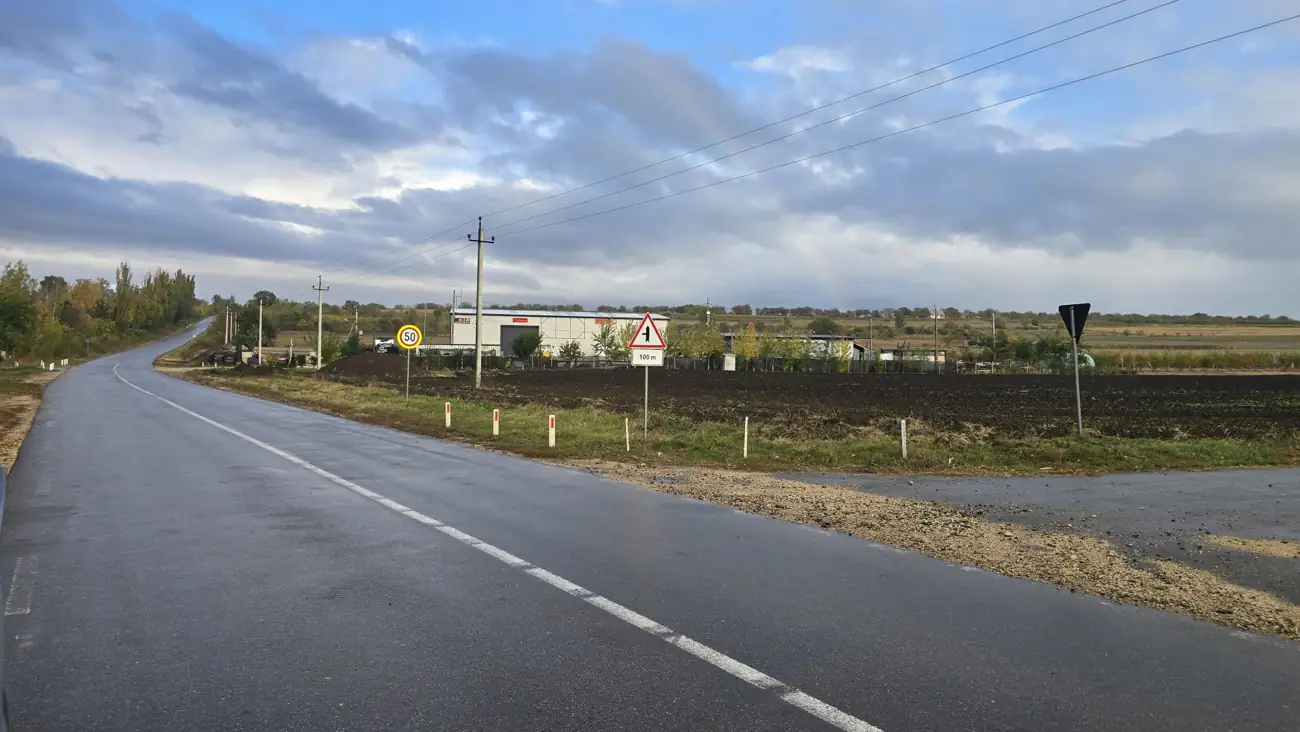
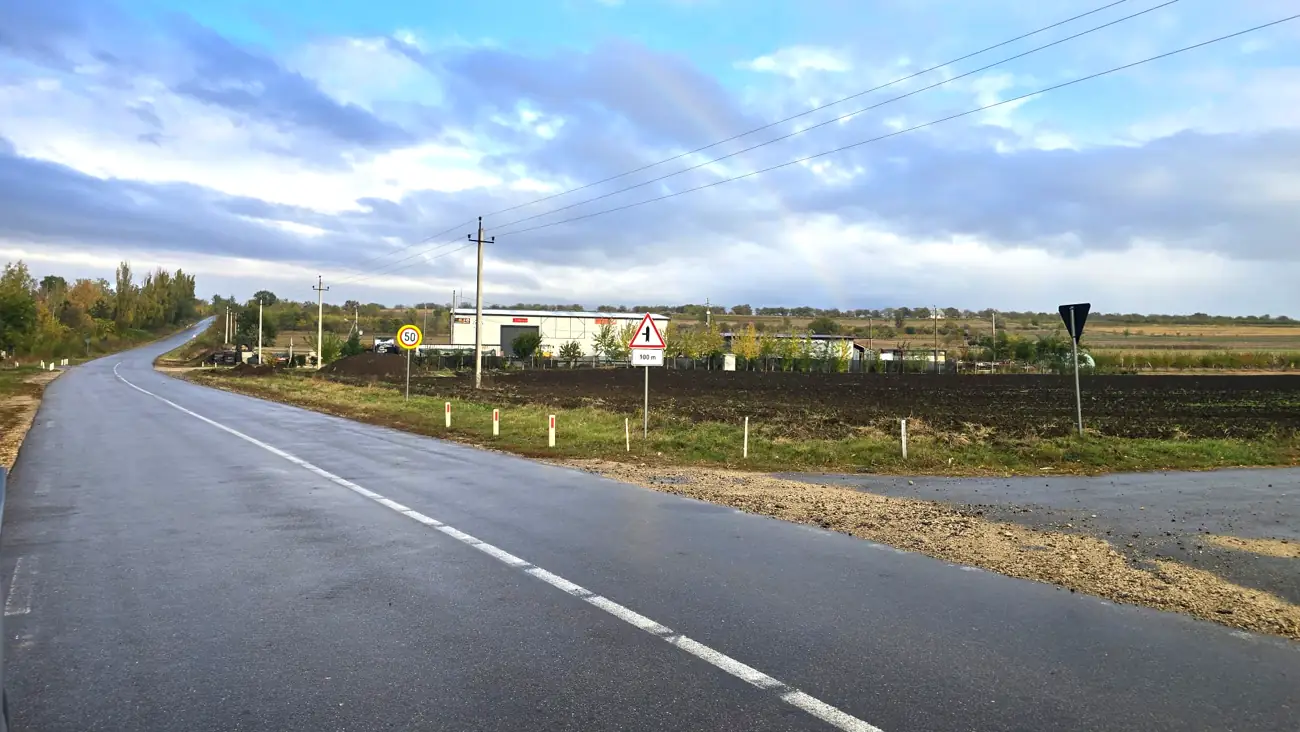
Hero photo: brighter image and lighter overlay (text stays readable)
Claude-Session: https://claude.ai/code/session_01KERyrv5ZEYnTnzEC3Q22rs

diff --git a/styles.css b/styles.css
@@ -90,15 +90,14 @@ header{position:sticky;top:env(safe-area-inset-top,0px);z-index:20;background:co
 
 /* Hero */
 .hero{position:relative;overflow:hidden;border-bottom:1px solid var(--border);background:var(--carbon-deep) url("assets/hero-road.webp") center 62%/cover no-repeat}
-.hero::before{content:"";position:absolute;inset:0;background:linear-gradient(90deg,color-mix(in srgb,var(--carbon-deep) 90%,transparent) 0%,color-mix(in srgb,var(--carbon-deep) 80%,transparent) 45%,color-mix(in srgb,var(--carbon-deep) 38%,transparent) 100%)}
+.hero::before{content:"";position:absolute;inset:0;background:linear-gradient(90deg,color-mix(in srgb,var(--carbon-deep) 78%,transparent) 0%,color-mix(in srgb,var(--carbon-deep) 60%,transparent) 45%,color-mix(in srgb,var(--carbon-deep) 10%,transparent) 100%)}
 @media (max-width:900px){
   .hero{background-size:auto 640px;background-position:62% 0}
-  .hero::before{background:linear-gradient(180deg,color-mix(in srgb,var(--carbon-deep) 78%,transparent) 0,color-mix(in srgb,var(--carbon-deep) 72%,transparent) 360px,var(--carbon-deep) 640px)}
-  .hero .eyebrow{color:var(--on-dark)}
+  .hero::before{background:linear-gradient(180deg,color-mix(in srgb,var(--carbon-deep) 66%,transparent) 0,color-mix(in srgb,var(--carbon-deep) 68%,transparent) 330px,var(--carbon-deep) 640px)}
 }
 @media (max-width:700px){.hero{background-image:url("assets/hero-road-sm.webp")}}
 .hero .wrap{position:relative;display:grid;grid-template-columns:minmax(0,680px);gap:56px;padding-block:96px 88px;align-items:center}
-.hero .eyebrow{margin-bottom:18px;color:var(--accent)}
+.hero .eyebrow{display:inline-block;margin-bottom:18px;padding:5px 10px;border-radius:4px;color:#fff;background:color-mix(in srgb,var(--carbon-deep) 70%,transparent)}
 .hero h1{font-size:clamp(2.5rem,6vw,4.75rem);font-weight:900;line-height:1;color:#fff}
 .hero h1 em{font-style:normal;color:var(--accent)}
 .hero p.lead{font-size:18px;color:var(--on-dark);max-width:60ch;margin:24px 0 32px}
